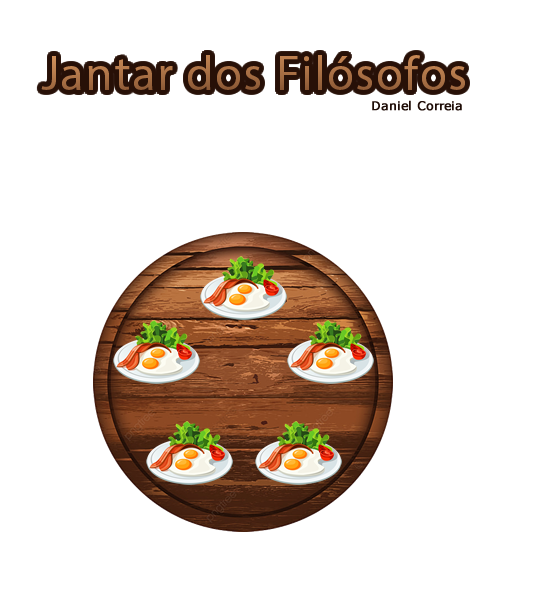
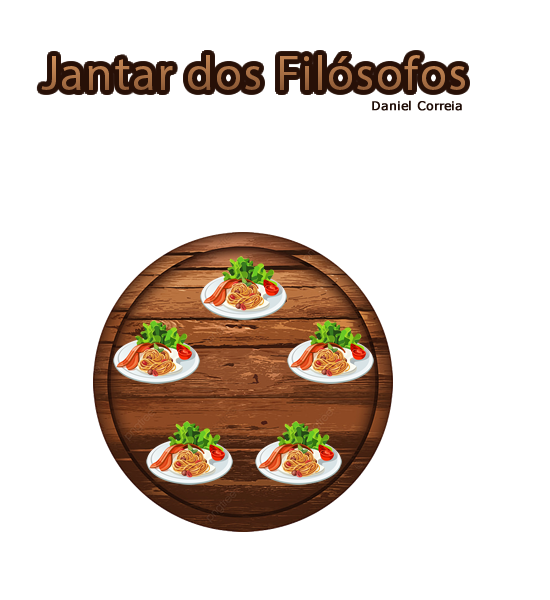
README.md

diff --git a/src/JantarFilosofos/Jantar.java b/src/JantarFilosofos/Jantar.java
@@ -1,5 +1,15 @@
 package JantarFilosofos;
 
+/*
+O JANTAR DOS FILÓSOFOS - PROBLEMA DE SINCRONIZAÇÃO EM SISTEMAS OPERACIONAIS
+Um dos problemas clássicos sobre a sincronização na comunicação entre processos e threads em Sistemas Operacionais.
+
+Cinco filósofos estão sentados em uma mesa redonda para jantar. Cada filósofo tem um prato com espaguete à sua frente. 
+Cada prato possui um garfo para pegar o espaguete. O espaguete está muito escorregadio e, para que um filósofo consiga comer, 
+será necessário utilizar dois garfos. 
+
+*/
+
 import java.awt.BorderLayout;
 
 import java.awt.EventQueue;
